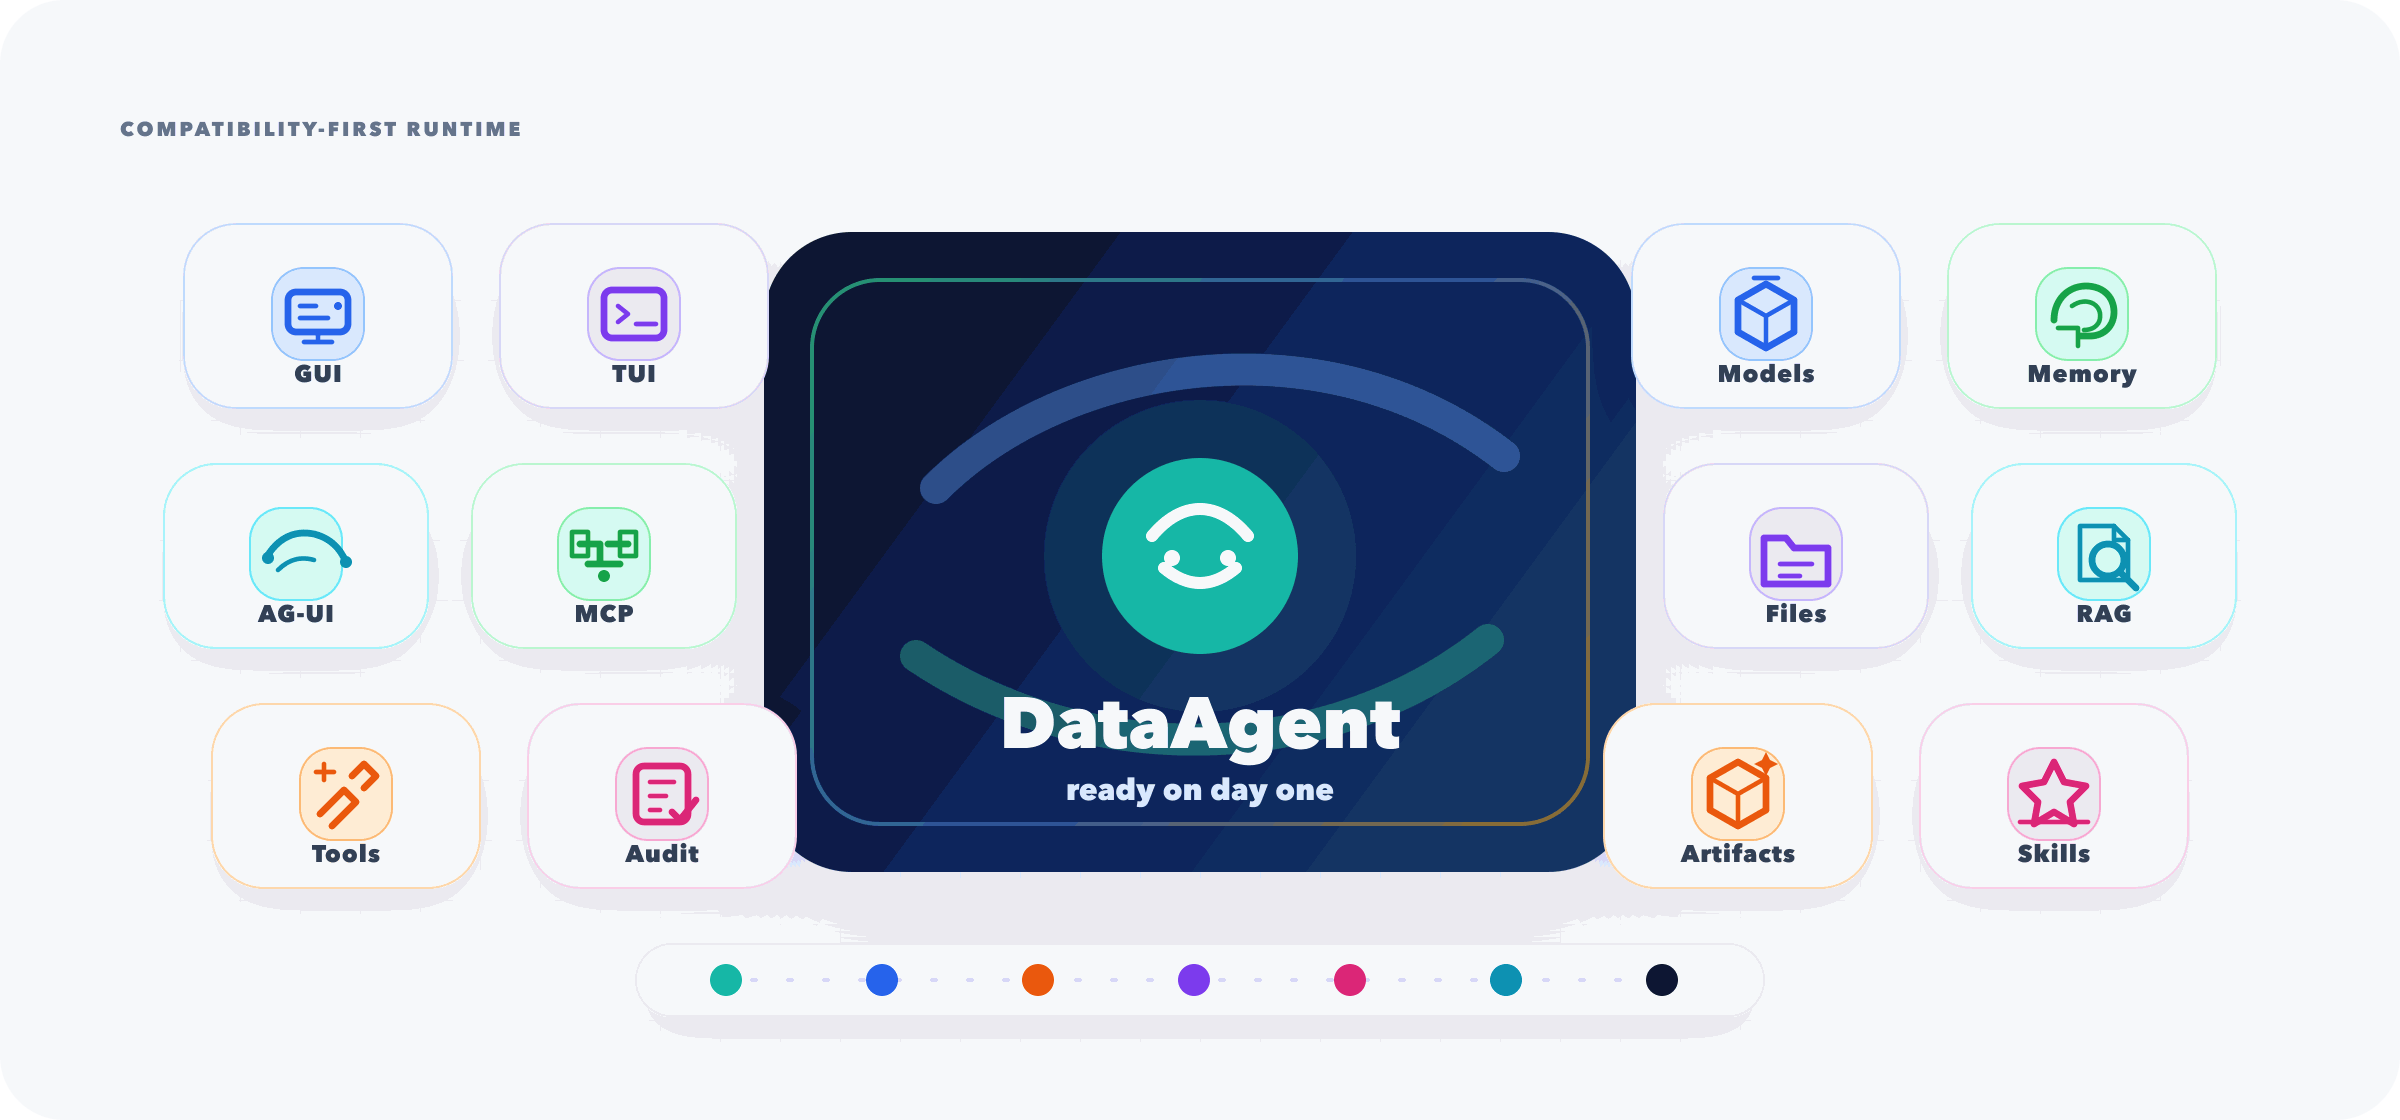
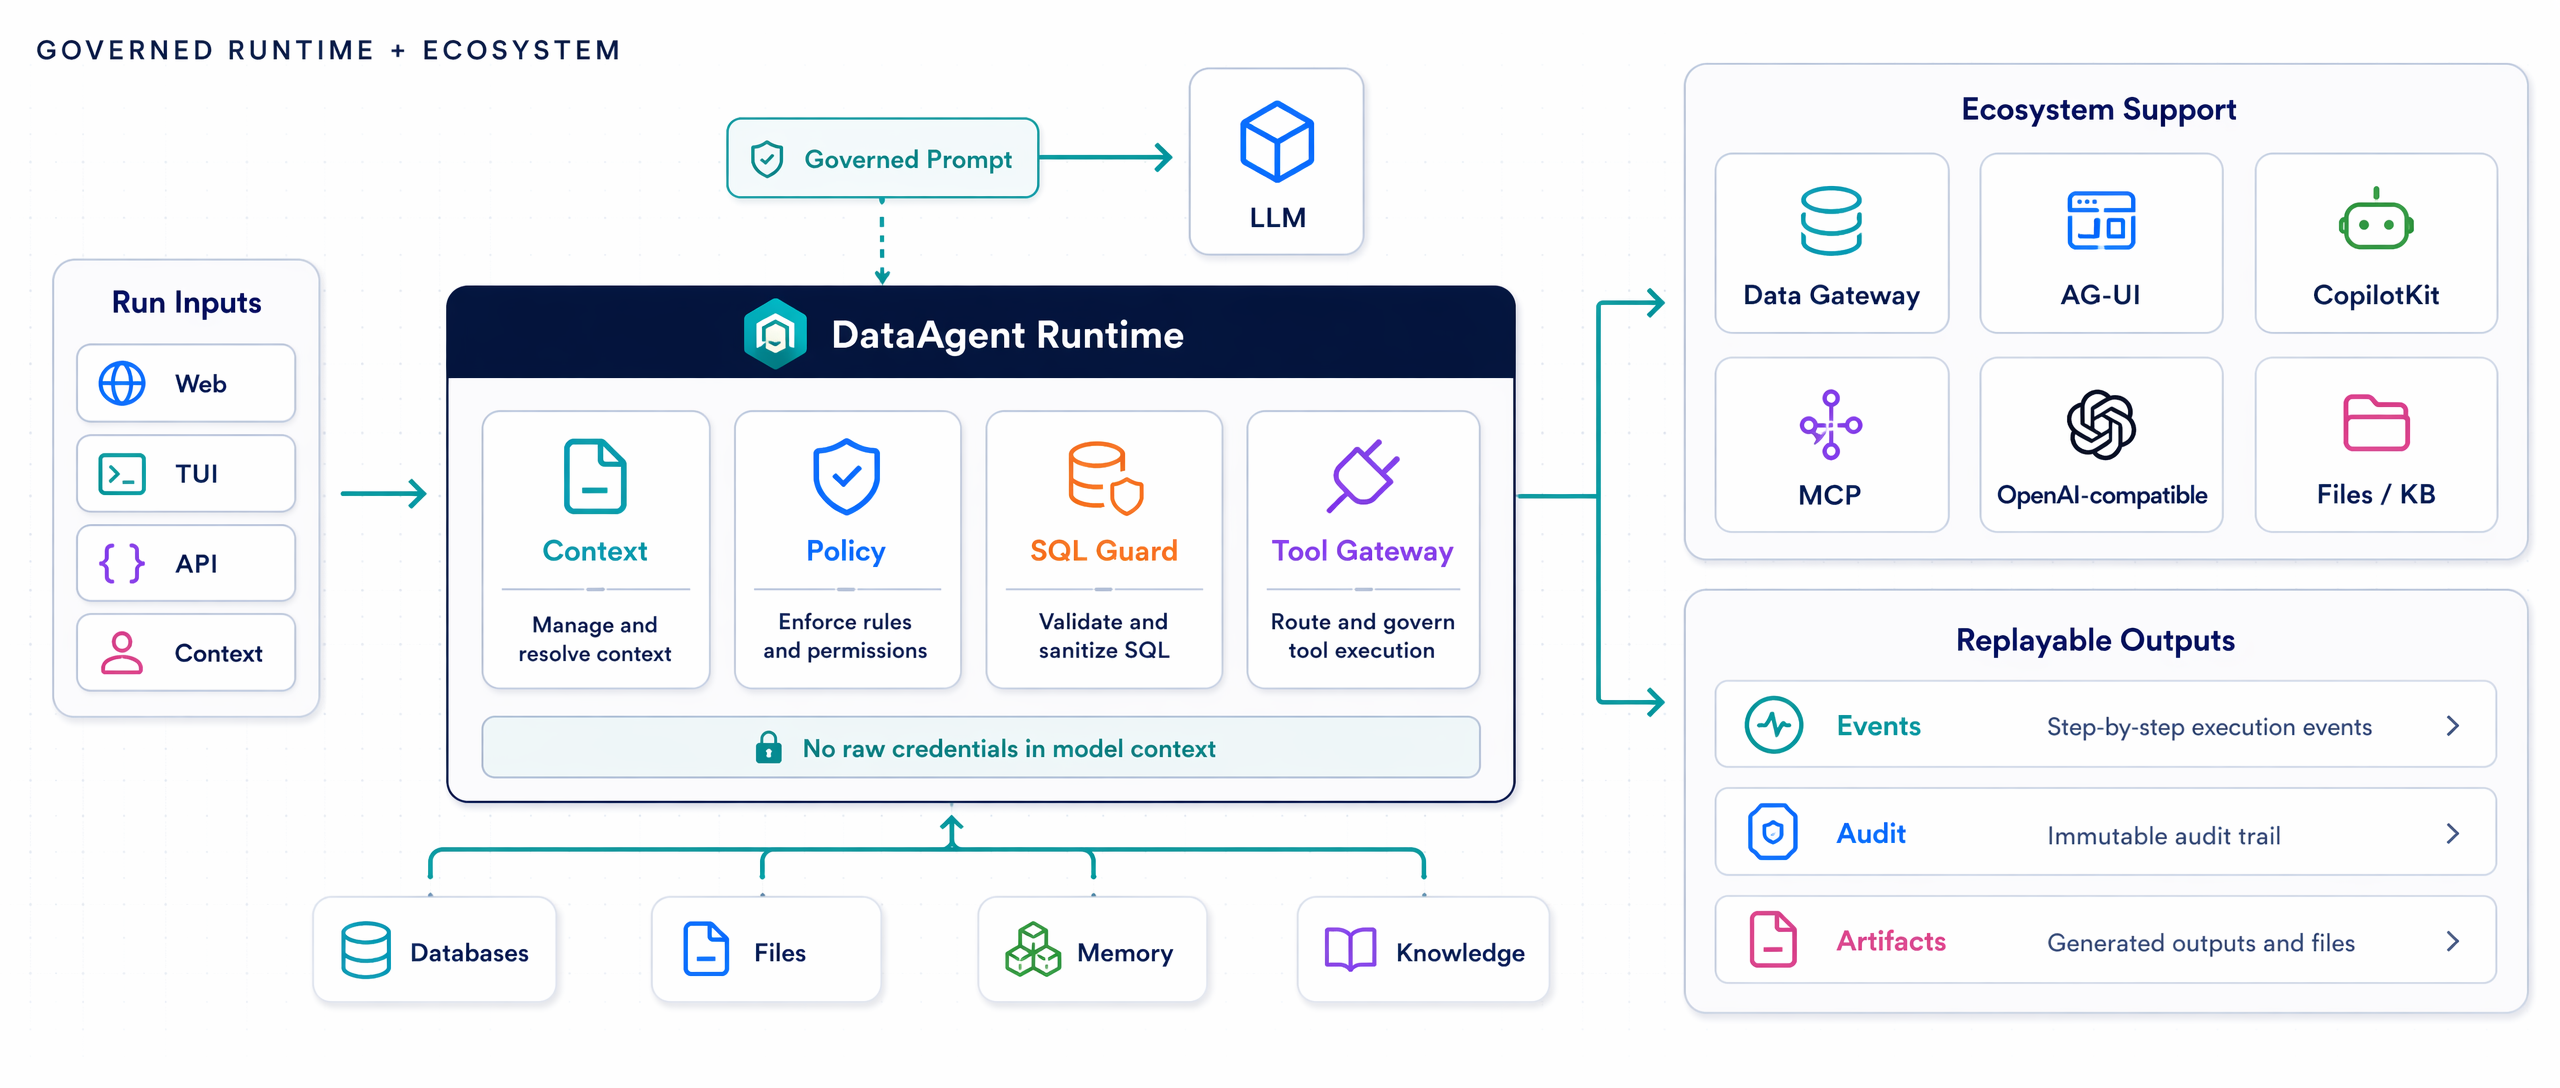
docs: refresh README runtime flow image

diff --git a/docs/zh/architecture/overview.md b/docs/zh/architecture/overview.md
@@ -13,7 +13,7 @@ Web 工作台 / TUI / 其他客户端
   -> Metadata 与审计存储
 ```
 
-精选架构图可参考仓库首页使用的运行流程图：[`docs/assets/readme/runtime-flow.svg`](../../assets/readme/runtime-flow.svg)。
+精选架构图可参考仓库首页使用的运行流程图：[`docs/assets/readme/runtime-flow.png`](../../assets/readme/runtime-flow.png)。
 
 ## 主要模块
 